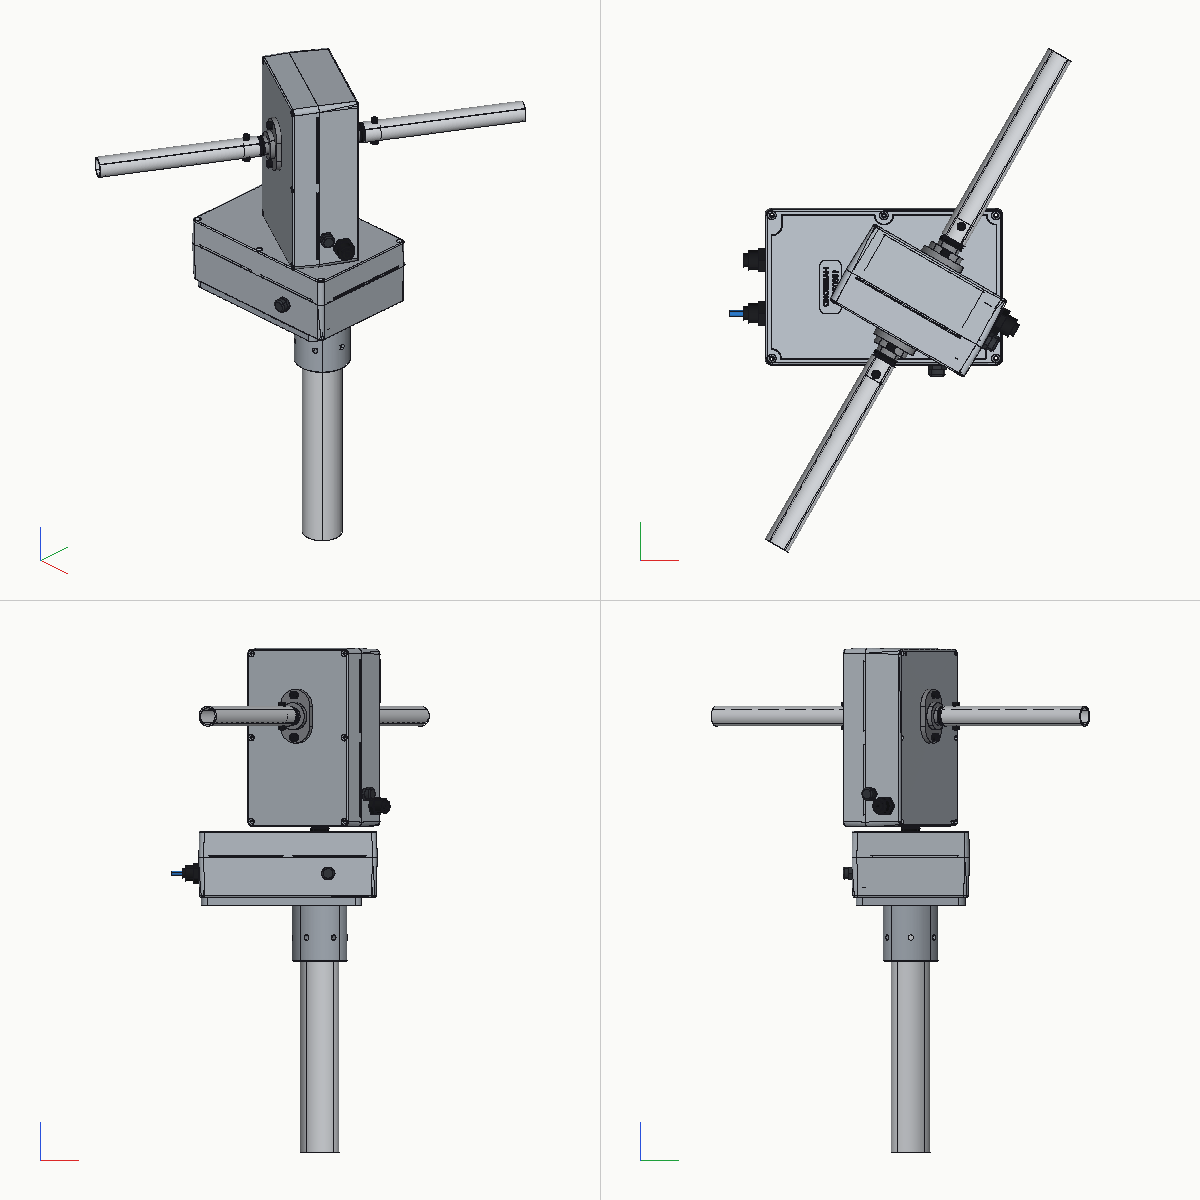
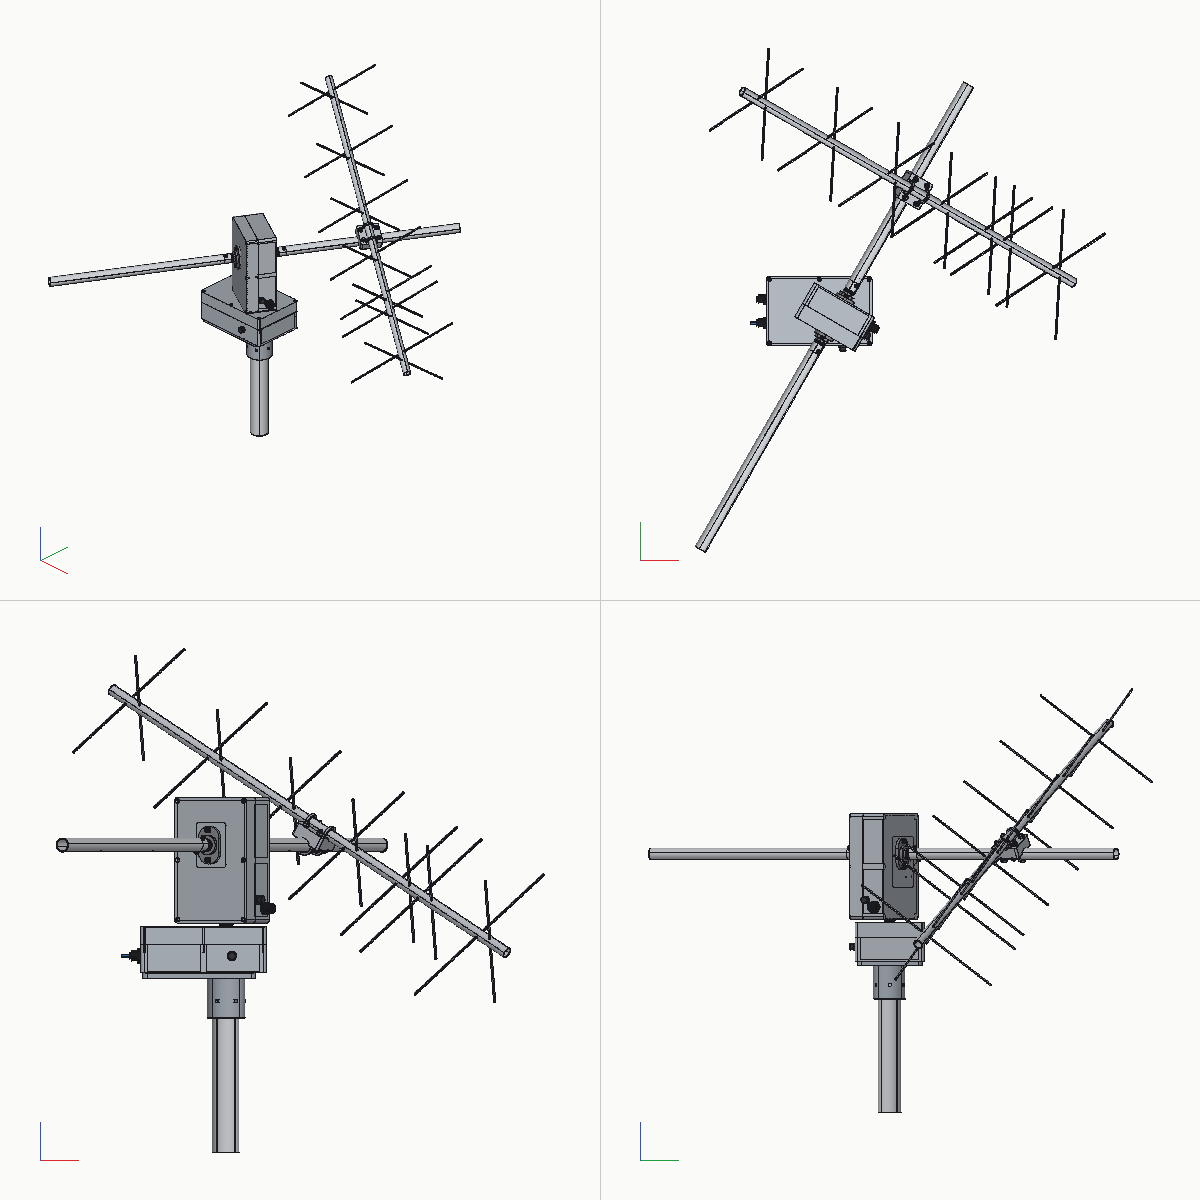
Crossed 7-element 70 cm yagi

diff --git a/README.md b/README.md
@@ -8,7 +8,7 @@ are cut plates and a few turned and milled pieces, see `QUOTE.md`.
 
 ![Inside, box lids hidden](docs/inside.png)
 
-![Turned to az 60°](docs/posed.png)
+![Turned to az 60°, el 30°](docs/posed.png)
 
 ```sh
 gcad rotator.gasm                         # viewer, joints `az` and `el`
@@ -49,6 +49,30 @@ gcad export rotator.gasm rotator.step
   Hammond's STEP they are drawn from its measurements. Download the STEP from
   https://www.hammfg.com/part/1550Z220, save it as `parts/vendor/1550Z220.stp`, and run
   with `--set hammond=1` to drill the real boxes; `./export.sh` uses it when present.
+
+## 70 cm yagi
+
+A crossed 7-element yagi for 435 MHz, cut from the DL6WU design in
+[antenna toolbox](https://github.com/v0l/antenna-toolbox) (4 mm elements bonded through a
+20 mm metal boom). Solved per plane: 11.9 dBi, F/B 30 dB, about 39 - j5 Ω at each driven
+element. The two planes sit 25 mm apart along the boom in an X, 45° off the crossboom, and are
+fed RHCP through a quarter-wave phasing harness. The model points it at the zenith (`el=90`).
+
+| element | length | from the reflector |
+|---|---|---|
+| reflector | 346.4 | 0 |
+| driven, tip to tip, split at the boom | 323.8 | 137.8 |
+| D1 | 311.3 | 189.5 |
+| D2 | 307.8 | 313.6 |
+| D3 | 304.2 | 461.7 |
+| D4 | 300.8 | 634.0 |
+| D5 | 297.8 | 827.0 |
+
+The second plane is the same set 25 mm further along. Parasitic lengths include DL6WU's
++10.8 mm boom correction. The boom (`parts/yagi435.gcad`) is 932 mm of 20 x 1.5 tube, with
+40 mm past the reflector and the last director. It crosses the right-hand crossboom tube
+300 mm out, at the yagi's balance point, on a milled cross clamp (`parts/crossclamp.gcad`)
+held by four M6 U-bolts.
 
 ## Control board
 

diff --git a/BOM.md b/BOM.md
@@ -60,6 +60,12 @@ the UK adds Irish import VAT and a carrier handling fee.
 | 1 | Takachi CR123A-R battery holder with 140 mm leads, plus a JST PHR-2 housing and 2 SPH crimps | Conrad, item 1882324 |
 | 1 | CR123A lithium cell | any |
 | 1 | RJ45 plug for the PoE cable, crimped inside the box after the cable is through the gland | any |
+| 1 | Aluminium tube 20 x 1.5, 1 m (yagi boom) | [Aluminium Online](https://www.aluminium-online.co.uk) |
+| 5 | Aluminium rod 4 mm, 1 m (yagi elements, three per bar) | [Aluminium Online](https://www.aluminium-online.co.uk) |
+| 24 | Push-on star lock washer, 4 mm shaft, A2 (parasitic elements, both sides of the boom) | [Accu](https://www.accu.co.uk) |
+| 2 | Dipole centre insulator box for a 20 mm boom (split driven elements) | DK7ZB, WiMo |
+| 2 | M6 U-bolt for 25 mm tube, A4, with nuts | [Accu](https://www.accu.co.uk) |
+| 2 | M6 U-bolt for 20 mm tube, A4, with nuts | [Accu](https://www.accu.co.uk) |
 | 14 | Ruthex M3 heat-set insert, 5.7 long (gear covers) | [3DJake Ireland](https://www.3djake.ie/) |
 | 1 | PETG filament, about 150 g (gear covers) | [3DJake Ireland](https://www.3djake.ie/) |
 | | A4 screws: M3x6 (4), M3x8 countersunk (2), M3x10 (18), M3x14 (4), M4x10 (4), M4x16 (4), M4x16 countersunk (4), M5x30 (2), M5x6 set screw (1), M6x10 (2), M6x16 (2), M6x20 (4), M8x12 countersunk (4); nuts M4 (4), M6 (4), M5 nyloc (2) | [Accu](https://www.accu.co.uk) |

diff --git a/QUOTE.md b/QUOTE.md
@@ -22,6 +22,8 @@ tap drill size; the thread is in the table.
 | `mast_clamp` | 1 | 6082-T6, 200 x 136 x 10 flange on a Ø68 x 70 socket (weldment or machined from plate plus bar); Ø48.7 x 62 bore; 2.6 x 1.5 O-ring cord groove 4 mm in from the flange edge; blind 8 deep: 2x M6, 4x M8, 4x M4, 6x M3; 3x M8 radial |
 | `flange_collar` | 1 | steel, Ø44 x 8 flange on a Ø24 x 12 hub; Ø15 H7 bore with 5 JS9 keyway; 4x Ø4.5 on 34 PCD; M5 set screw in the hub |
 | `az_spindle` | 1 | Ø15 silver steel, 107 long; keyseat 5 P9 x 3 x 20 at 23 from the bottom end; keyseat 5 P9 x 3 x 18 open at the top end |
+| `cross_clamp` | 1 | 6082-T6, 60 x 60 x 24 block, R4 corners; Ø25.2 saddle 6.6 deep along one side, Ø20.2 saddle 5 deep across the other; 8x Ø6.6 through |
+| `yagi_boom` | 1 | 20 x 1.5 aluminium tube, 932 long; 14x Ø4.2 cross holes in two planes at 90°, see the drawing |
 | `el_shaft` | 1 | Ø15 silver steel, 194.7 long; keyseat 5 P9 x 3 x 20 at 86.6 from one end; Ø5.2 cross holes at 17.35 and 177.35 |
 
 ## Printed
